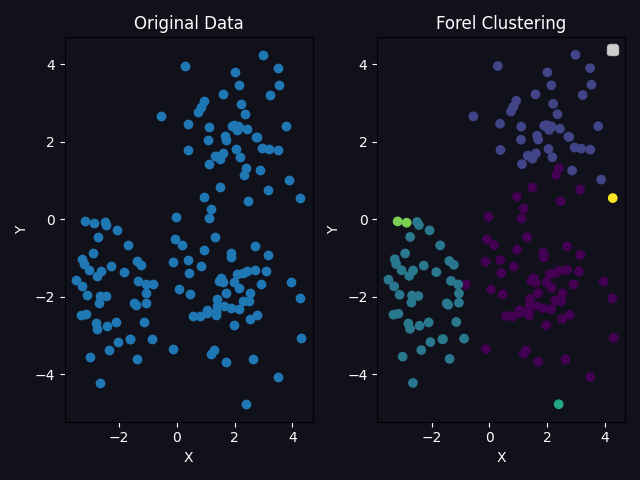
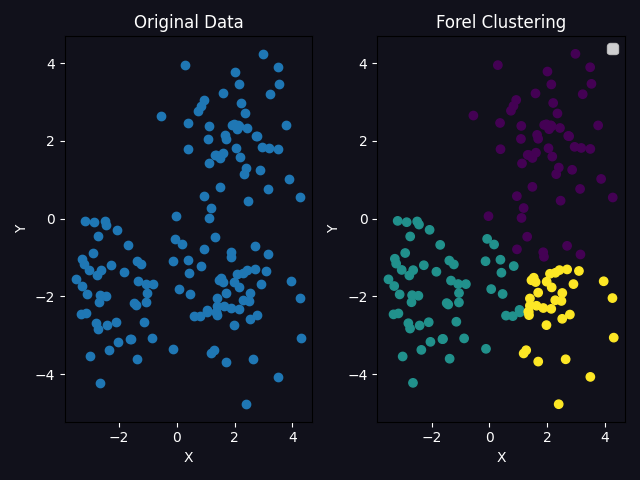
feat: fixed for h 100 place, now cluster works fine

diff --git a/forel.py b/forel.py
@@ -41,20 +41,25 @@ def forel(data, r):
         indexes_to_delete = []
 
         # find all points which have less or equal to r distance
-        for i in range(len(remaining_indices)):
+        for h in range(100):
+          centroidCopy = centroid.copy()
+          arr_selected_els = []
+          indexes_to_delete = []
+          
+          for i in range(len(remaining_indices)):
             dist = euclideandistance(data[remaining_indices[i]], centroid)
             
             if dist <= r:
-            #   label them
-              labels[remaining_indices[i]] = cluster_num
-            #   add them to sep array (for later calc of their mean)
-              arr_selected_els.append(data.tolist()[i])
-            #   save their indices (to delete them afterwards from the pool)
               indexes_to_delete.append(remaining_indices[i])
 
+          for i in range(len(indexes_to_delete)):
+            #   label them
+              labels[indexes_to_delete[i]] = cluster_num
+            #   add them to sep array (for later calc of their mean)
+              arr_selected_els.append(data.tolist()[indexes_to_delete[i]])
+            #   save their indices (to delete them afterwards from the pool)
+
         # adjust the centroid of found cluster till stops changing
-        for h in range(100):
-          centroidCopy = centroid.copy()      
           centroid = mean(arr_selected_els)
 
           is_equal = True
@@ -67,6 +72,7 @@ def forel(data, r):
             centroids.append(centroid)
             break
 
+        print(indexes_to_delete)
         # delete already marked points from the pool
         for i in range(len(indexes_to_delete)):
             remaining_indices.remove(indexes_to_delete[i])
